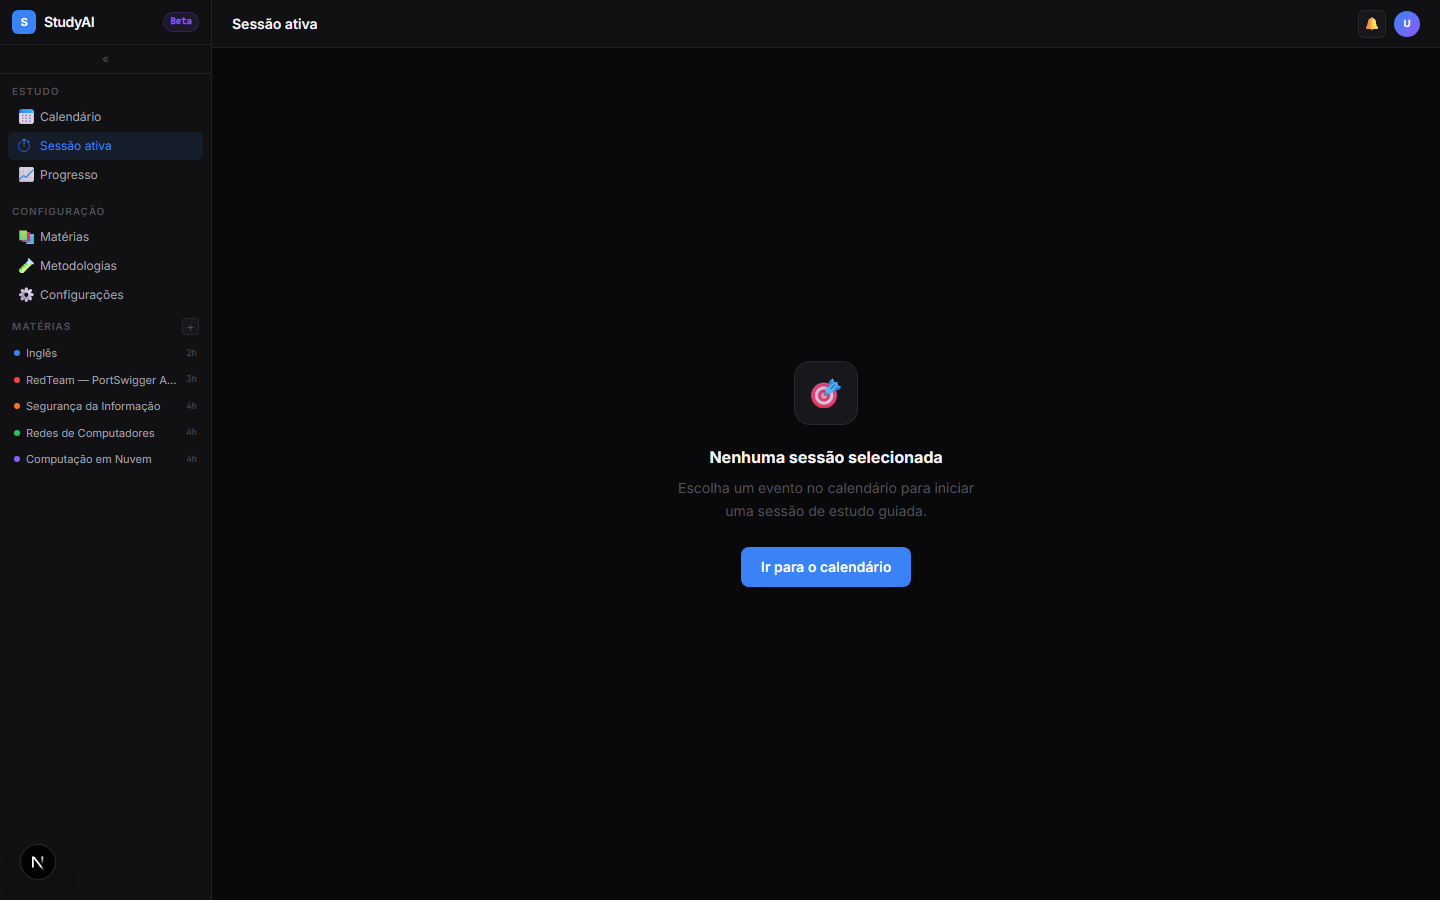
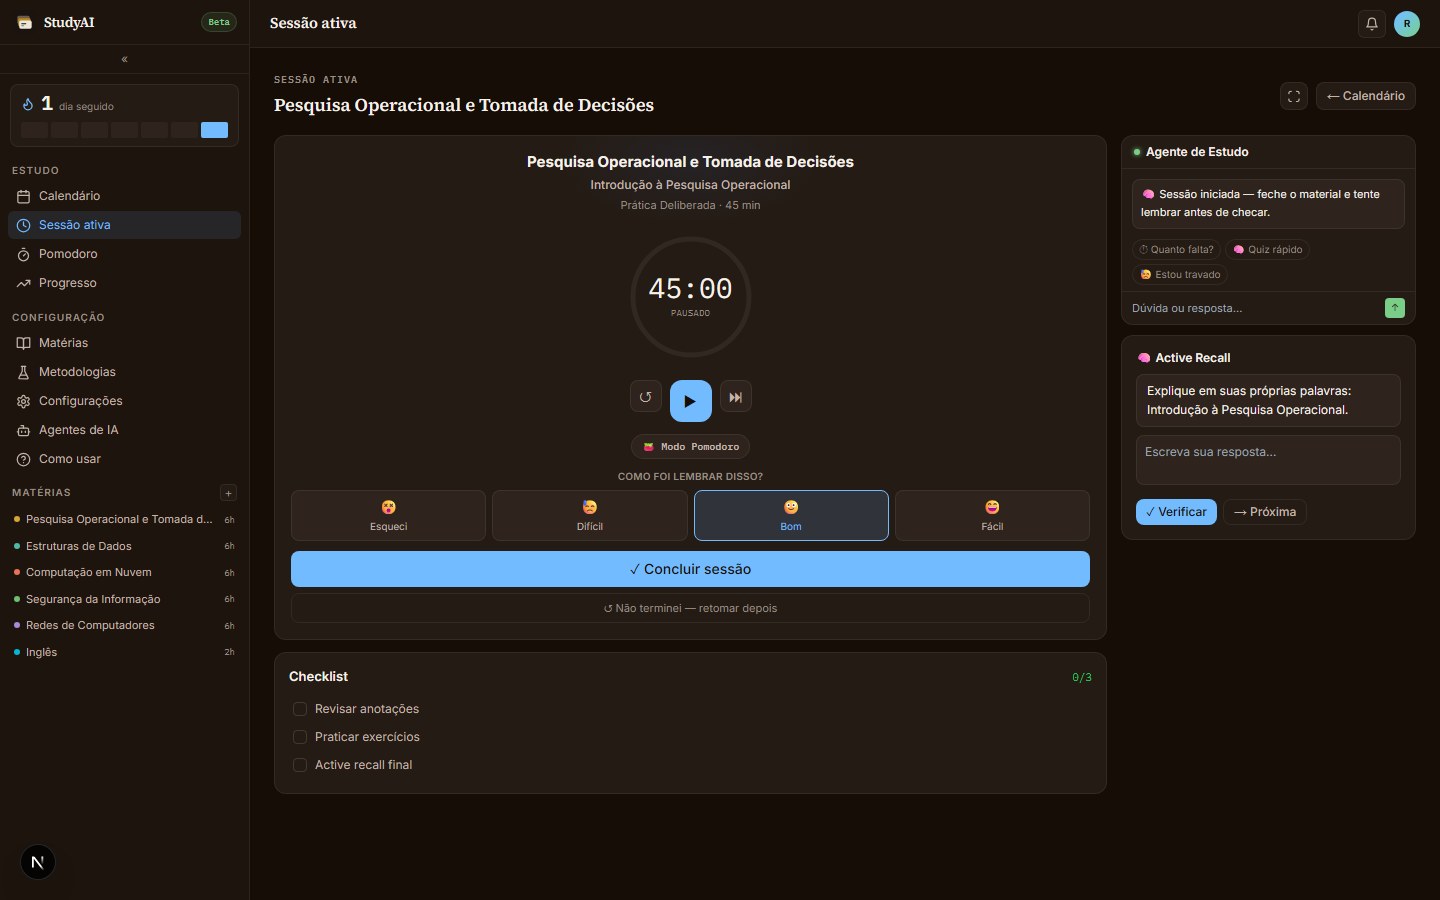
Refresh README/USER_GUIDE and all screenshots against current app state
Screenshots were taken against real seeded data (6 disciplines, real
progress) instead of an empty account, and now include /agents and the
new standalone /pomodoro tab (previously undocumented and unshotted).

Docs now cover everything shipped since the last pass:
- Matérias: Lista/Kanban view toggle, drag-and-drop status change + reorder
  within a Kanban column.
- Sessão: Pomodoro durations are configurable now (was hardcoded 25/5),
  Active Recall grading is 3-tier (Correto/OK/Incorreto), not boolean.
- New standalone Pomodoro tab: independent of any discipline, configurable
  work/break/long-break durations and cycle interval, lofi/Spotify
  background music, its own Hoje/Semana/Histórico stats and streak.
- New Aparência tab: 4 live color templates (Notion default, Linear,
  Raycast, Claude — the app's only light theme), saved to profile.
- Progresso: level/XP gamification card.
- Dashboard: the notification bell is real now (overdue reviews + exams
  within 7 days), not a canned toast; stat cards have explanatory tooltips.
- Agentes de IA: the "responde no chat" vs "automático" distinction added
  earlier this session.

diff --git a/docs/USER_GUIDE.md b/docs/USER_GUIDE.md
@@ -153,6 +153,14 @@ arraste/associe disciplinas a ela. É só organização visual — apagar um gru
 disciplinas dele (não apaga as disciplinas), e nenhuma lógica de geração de calendário lê o grupo
 de uma matéria.
 
+## Visão Lista vs. Kanban
+
+No topo de **Matérias**, alterne entre **Lista** (o card completo de cada disciplina, com todos os
+módulos visíveis) e **Kanban** (cada disciplina vira um mini-quadro de 3 colunas — Pendente / Em
+curso / Feito). No Kanban dá pra arrastar um módulo entre colunas pra mudar o status (mesmo efeito
+de clicar no status no modo Lista) e também reordenar módulos dentro da mesma coluna arrastando —
+a ordem afeta só a exibição, não muda peso/prioridade na geração do calendário.
+
 ## Múltiplas provas/avaliações por matéria
 
 Cada disciplina pode ter várias avaliações cadastradas (nome, data, peso opcional) em vez de uma
@@ -177,7 +185,7 @@ pedagógico, por um critério real (não aleatório):
 | 🗺 Mapas Mentais | Sim (critério restrito) | Módulo pendente com 4+ tópicos cadastrados — material com muitos subtópicos interligados se beneficia de organizar antes de praticar |
 | 📐 Aprendizagem por Problemas | Sim (parcial) | Ciclo de módulos "em progresso" — aplicar a um problema real encaixa melhor quando já existe alguma base |
 | 🔀 Interleaving | Não é rotulado como "metodologia da sessão" | O motor *aplica* interleaving na distribuição das sessões (intercala matérias), mas isso é sobre a ordem das sessões, não sobre o que fazer dentro de uma — não aparece como rótulo |
-| ⏱ Pomodoro | Não é atribuída pelo agendador | É uma técnica estrutural (organiza *quando/quanto tempo* estudar), não de conteúdo — disponível como modo de timer opcional dentro de qualquer sessão, independente da metodologia escolhida pra ela |
+| ⏱ Pomodoro | Não é atribuída pelo agendador | É uma técnica estrutural (organiza *quando/quanto tempo* estudar), não de conteúdo — disponível como modo de timer opcional dentro de qualquer sessão (independente da metodologia escolhida pra ela) ou solto na aba própria **Pomodoro** |
 
 Vale abrir a tela Metodologias e ler o passo a passo de cada uma antes de uma sessão — o conteúdo
 lá é completo e fundamentado na base de evidência do projeto (Dunlosky et al. 2013 e outras
@@ -189,17 +197,19 @@ Você chega em uma sessão clicando em um evento no calendário e depois em "▶
 pelo card de uma disciplina). Isso cria o registro da sessão no banco *no momento em que você
 inicia* — não no horário original do slot do calendário.
 
-- **Timer**: play/pause, reset, pular, ou troque pro **modo Pomodoro** (ciclo de 25 min de foco /
-  5 min de pausa, com transição automática e contagem de ciclos completos). Atalho de teclado:
-  `Espaço` (play/pause, segue o modo ativo), `F` (modo foco em tela cheia), `Esc` (sair do modo
-  foco), `→` (próxima pergunta de active recall).
+- **Timer**: play/pause, reset, pular, ou troque pro **modo Pomodoro** (durações configuráveis —
+  ver seção própria abaixo — com transição automática e contagem de ciclos completos). Atalho de
+  teclado: `Espaço` (play/pause, segue o modo ativo), `F` (modo foco em tela cheia), `Esc` (sair do
+  modo foco), `→` (próxima pergunta de active recall).
 - **Checklist**: "Revisar anotações", "Praticar exercícios", "Active recall final" — é só um guia
   visual, não é salvo nem afeta nada além da própria tela.
 - **Active Recall**: se o módulo tem tópicos cadastrados, as 3 perguntas são geradas pela IA com
   base nesse conteúdo real (não genéricas); sem tópicos, ou se a chamada à IA falhar, cai num
   template genérico — a sessão nunca trava esperando a IA. Depois de responder e clicar
-  "Verificar", a resposta é avaliada por IA como certa/incompleta com um feedback curto (se essa
-  chamada falhar, sua resposta continua sendo registrada, só sem o veredito).
+  "Verificar", a resposta é avaliada pela IA em 3 níveis — **✓ Correto** (entendeu bem), **OK**
+  (mostrou entendimento parcial, mas faltou uma parte real da resposta) ou **✗ Incorreto** (vago,
+  vazio ou fora do tópico) — com um feedback curto explicando o veredito (se essa chamada falhar,
+  sua resposta continua sendo registrada, só sem o veredito).
 - **Concluir sessão**: registra a sessão como concluída, aplica o resultado ao FSRS (data da
   próxima revisão daquele módulo é recalculada de verdade a partir da sua autoavaliação de recall)
   e volta ao Dashboard.
@@ -216,6 +226,45 @@ no topo de qualquer outra tela do app enquanto a sessão continua ativa, com ata
 — é a parte da tela com mais evidência de eficácia (veja a skill `study-methodology-mentor` para o
 porquê). O checklist é só apoio; o ganho real de aprendizado está no recall.
 
+## Aba Pomodoro (timer solto, sem vincular a uma matéria)
+
+Diferente do modo Pomodoro dentro de uma sessão (que também conta pro histórico daquela matéria),
+a aba **Pomodoro** na barra lateral é um timer independente — útil pra qualquer bloco de foco,
+dentro ou fora do StudyAI, sem precisar escolher módulo nenhum.
+
+- **Configuração** (ícone de engrenagem): duração do foco, da pausa curta, da pausa longa, e a
+  cada quantos ciclos a pausa longa entra — mesmo modelo do pomofocus.io. Também dá pra ligar
+  auto-início da próxima fase (foco→pausa e pausa→foco sem precisar clicar em play de novo).
+- **Música de fundo**: ligada por padrão com um ambiente lofi gerado localmente (Web Audio API —
+  sem baixar nem transmitir arquivo nenhum), ou troque pra uma playlist do Spotify colando o link
+  dela. Ajustável direto na tela, com controle de volume.
+- **Abas Hoje / Semana / Histórico**: minutos de foco reais completados (não conta o tempo de
+  pausa) e um streak próprio — dias consecutivos com pelo menos um ciclo de foco completo, contado
+  separado do streak de sessões de estudo em Progresso.
+
+## Aparência — trocar a paleta de cores do app
+
+Em **Configurações → Aparência**, escolha entre 4 templates de cor prontos — a mudança é instantânea,
+não precisa clicar em "Salvar alterações":
+
+| Template | Descrição |
+|---|---|
+| Notion | Padrão do app — azul e verde sobre grafite quente |
+| Linear | Preto quase absoluto, acento índigo |
+| Raycast | Vazio azulado escuro, acento vermelho |
+| Claude | Único tema **claro** do app — pergaminho e terracota |
+
+A escolha fica salva no seu perfil (persiste entre sessões/dispositivos, não é só local no
+navegador) e é aplicada imediatamente ao carregar qualquer tela, sem piscar o tema padrão antes.
+
+## Nível e XP (Progresso)
+
+O card no topo de **Progresso** mostra um nível e uma barra de XP, puramente local (nenhum dado
+sai da sua máquina, não é um ranking nem tem componente social). Você ganha XP por: completar uma
+sessão de estudo, completar uma revisão espaçada (metodologia "Repetição Espaçada"), e por cada
+dia de streak. É uma camada de progressão de longo prazo em cima das métricas reais — não afeta o
+calendário nem a metodologia escolhida pra nenhuma sessão.
+
 ## Configurações — o que já funciona e o que ainda é só preferência salva
 
 Seja realista sobre o que mexer aqui muda de fato, hoje:
@@ -230,6 +279,7 @@ Seja realista sobre o que mexer aqui muda de fato, hoje:
 | IA & Agentes → Base URL / Chave / Modelo | **Funciona de verdade** — troca o provedor/modelo usado por todas as chamadas de IA do app (Orchestrator, geração de calendário via IA, parser de ementa, geração/correção de active recall), sem precisar editar `.env.local` nem reiniciar o servidor. Use "Testar conexão" pra validar antes de salvar |
 | IA & Agentes → Agressividade do replanejamento | Preferência salva, **não é lida por nenhuma parte da geração de calendário** ainda |
 | IA & Agentes → toggles de Curriculum/Pedagogy/Progress/QA Agent | Preferência salva, **não desativam de fato o agente correspondente** — por exemplo, desligar "QA Agent" aqui não impede o QA de rodar |
+| Aparência → Template de cores | Funciona de verdade — troca a paleta do app inteiro na hora, sem precisar salvar |
 | Manutenção → Corrigir progresso | Funciona — recalcula o % de conclusão de todas as matérias a partir dos módulos realmente marcados como concluídos, útil se o progresso ficou dessincronizado |
 | Zona de risco → Apagar tudo | Funciona — remove matérias/módulos/grupos/sessões, mas preserva seu perfil e suas preferências (você reentra pelo onboarding com nome/bio/disponibilidade já preenchidos, não do zero) |
 

diff --git a/README.md b/README.md
@@ -10,8 +10,6 @@ via Ollama por padrão (grátis e privado — nenhum dado sai da sua máquina).
 ![CI](https://github.com/rychardchagas/StudyAi/actions/workflows/ci.yml/badge.svg)
 ![CodeQL](https://github.com/rychardchagas/StudyAi/actions/workflows/codeql.yml/badge.svg)
 
-![Dashboard do StudyAI](docs/screenshots/dashboard.png)
-
 ## Índice
 
 - [O que é](#o-que-é)
@@ -47,8 +45,11 @@ IA. Detalhes completos da arquitetura e do fluxo de geração de calendário:
 ### 📅 Calendário / Dashboard
 Grade semanal com as sessões já distribuídas pelos agentes. Clique num evento para ver detalhes,
 ou em **⚡ Replanejar** para os agentes recalcularem o cronograma. Cartões de estatística no topo
-(sessões da semana, horas planejadas, % de aderência, revisões pendentes) e um assistente de IA
-lateral para conversar sobre o próprio plano.
+(sessões da semana, horas planejadas, % de aderência, revisões pendentes) — com tooltip explicando
+como cada número é calculado — e um assistente de IA lateral para conversar sobre o próprio plano.
+O sino no topo é um centro de notificações real (não decorativo): mostra revisões espaçadas
+realmente vencidas e provas nos próximos 7 dias, direto do que o app já sabe — sem infraestrutura
+de notificação nova por trás.
 
 ![Dashboard](docs/screenshots/dashboard.png)
 
@@ -59,25 +60,41 @@ FSRS. Organize matérias em **grupos** (ex: "Faculdade", "Projeto pessoal") quan
 contextos. Cada matéria pode ter **múltiplas provas/avaliações** cadastradas (nome, data, peso
 opcional) em vez de uma única data — o app sempre usa a mais próxima pra calcular urgência e
 prioridade, com a data antiga (`exam_date`) preservada como fallback pra matérias já existentes.
+Alterne entre visão **Lista** (cards completos) e **Kanban** (módulos em 3 colunas — Pendente/Em
+curso/Feito — com drag-and-drop tanto pra mudar status quanto pra reordenar dentro da coluna).
 
 ![Matérias](docs/screenshots/disciplines.png)
 
 ### ⏱ Sessão de estudo
-Execução guiada de uma sessão: timer com modo foco (tela cheia) — ou o **modo Pomodoro** (25 min
-de foco / 5 min de pausa, com transição automática e contador de ciclos) — checklist de tarefas e
-exercício de active recall com perguntas geradas pela IA a partir do conteúdo real do módulo
-(quando os tópicos foram cadastrados) e correção certo/errado avaliada pelo LLM. Se você não
-terminar, pode marcar **"Não terminei — retomar depois"**: a sessão conta pra streak/aderência mas
-não gera uma nota de recall falsa, e o módulo continua priorizado nas próximas sessões até ser
-concluído de fato. Uma barra de sessão ativa fica visível em qualquer tela do app enquanto há uma
-sessão em andamento, com atalhos pra continuar ou concluir sem precisar reabrir a tela cheia.
+Execução guiada de uma sessão: timer com modo foco (tela cheia) — ou o **modo Pomodoro**, com
+duração de foco/pausa configurável (ver seção Pomodoro abaixo) — checklist de tarefas e exercício
+de active recall com perguntas geradas pela IA a partir do conteúdo real do módulo (quando os
+tópicos foram cadastrados) e correção em 3 níveis avaliada pelo LLM: **Correto** / **OK**
+(entendimento parcial, mas faltou algo) / **Incorreto**. Se você não terminar, pode marcar
+**"Não terminei — retomar depois"**: a sessão conta pra streak/aderência mas não gera uma nota de
+recall falsa, e o módulo continua priorizado nas próximas sessões até ser concluído de fato. Uma
+barra de sessão ativa fica visível em qualquer tela do app enquanto há uma sessão em andamento,
+com atalhos pra continuar ou concluir sem precisar reabrir a tela cheia.
 
 ![Sessão](docs/screenshots/session.png)
+
+### 🍅 Pomodoro
+Timer de foco independente de qualquer matéria — pode ser usado dentro de uma sessão de estudo ou
+sozinho, pra qualquer bloco de foco. Durações de foco/pausa curta/pausa longa e o intervalo de
+ciclos até a pausa longa são configuráveis (mesmo modelo do pomofocus.io), com auto-início
+opcional da próxima fase. Música de fundo embutida — um ambiente lofi gerado localmente via Web
+Audio API (sem arquivo de áudio, sem streaming) por padrão, ou uma playlist do Spotify sua se
+preferir. Aba própria com histórico (hoje/semana/geral) e streak de dias com pelo menos um ciclo
+completo, separado do streak de sessões de estudo.
+
+![Pomodoro](docs/screenshots/pomodoro.png)
 
 ### 📈 Progresso
 Streak de dias consecutivos, horas estudadas, % de aderência ao plano, mapa de atividade (estilo
 GitHub, 12 semanas), sessões por matéria e insights gerados automaticamente pelo Progress Agent
-sobre seus padrões de estudo.
+sobre seus padrões de estudo. Um cartão de **nível e XP** no topo (ganho por sessão concluída,
+revisão espaçada feita e dia de streak) dá uma camada de progressão de longo prazo por cima das
+métricas — puramente local, sem envio de dado nenhum.
 
 ![Progresso](docs/screenshots/progress.png)
 
@@ -94,8 +111,10 @@ Perfil (nome/bio usados como contexto pela IA), notificações, horários de dis
 descanso** fixo por semana) e a aba **IA & Agentes** — troque de provedor (Ollama local, Groq,
 OpenRouter, ou qualquer endpoint compatível com a API da OpenAI) direto pela UI, sem editar
 `.env.local` nem reiniciar o servidor, com um botão "Testar conexão" que valida a config antes de
-salvar. Zona de risco com "Apagar tudo" (matérias/módulos/sessões/grupos — não afeta perfil nem
-preferências) e "Corrigir progresso" (recalcula o % de conclusão a partir dos módulos reais).
+salvar. A aba **Aparência** troca a paleta de cores do app inteiro na hora — 4 templates prontos
+(Notion, o padrão; Linear; Raycast; e Claude, o único tema claro do app). Zona de risco com
+"Apagar tudo" (matérias/módulos/sessões/grupos — não afeta perfil nem preferências) e "Corrigir
+progresso" (recalcula o % de conclusão a partir dos módulos reais).
 
 ![Configurações](docs/screenshots/settings.png)
 
@@ -117,7 +136,7 @@ já salvos em vez de começar em branco.
 | Camada | Tecnologia |
 |---|---|
 | Frontend | Next.js 15 (App Router) + React 18 + Tailwind CSS |
-| Estado | Hooks customizados por domínio (`useCalendar`, `useAI`, `useTimer`, `useDisciplines`, `useDisciplineGroups`, `usePomodoro`) — sem Redux/Zustand, estado local ao componente ou derivado direto do servidor |
+| Estado | Hooks customizados por domínio (`useCalendar`, `useAI`, `useTimer`, `useDisciplines`, `useDisciplineGroups`, `usePomodoro`/`usePomodoroConfig`, `useThemePreference`, `useLofiAmbience`) — sem Redux/Zustand, estado local ao componente ou derivado direto do servidor |
 | Backend | API Routes do próprio Next.js |
 | IA | Qualquer LLM compatível com a API da OpenAI (Ollama local por padrão) via `openai` SDK, validação de entrada com `zod` |
 | Banco | SQLite local via `node:sqlite` (nativo do Node 22+, zero dependência externa), zero configuração |
@@ -174,11 +193,12 @@ de rodar `pnpm ai:stop`, o consumo pesado de memória se limita sozinho.
    calendário e te leva para o Dashboard.
 2. **Todo dia** → abra o **Calendário**, veja as sessões agendadas para hoje e clique numa delas
    para abrir os detalhes; use **▶ Iniciar sessão** para ir para a tela de **Sessão ativa**.
-3. **Durante a sessão** → siga o checklist, use o modo foco (tecla `F`) ou o modo Pomodoro se
-   quiser tela cheia sem distração, responda o exercício de active recall e conclua a sessão ao
-   final — isso alimenta o histórico usado pelo Progress Agent e pelo FSRS para agendar a próxima
-   revisão. Se não der tempo de terminar, use **"↺ Não terminei — retomar depois"** em vez de
-   forçar uma conclusão com nota de recall inventada.
+3. **Durante a sessão** → siga o checklist, use o modo foco (tecla `F`) ou o modo Pomodoro (com
+   música de fundo, se quiser) para tela cheia sem distração, responda o exercício de active
+   recall e conclua a sessão ao final — isso alimenta o histórico usado pelo Progress Agent e pelo
+   FSRS para agendar a próxima revisão. Se não der tempo de terminar, use
+   **"↺ Não terminei — retomar depois"** em vez de forçar uma conclusão com nota de recall
+   inventada. Prefere um timer solto, sem vincular a uma matéria? Use a aba **Pomodoro**.
 4. **Quando o plano mudar** (nova prova marcada, matéria adicionada, horários mudaram) → vá em
    **Matérias** para editar/adicionar (inclusive múltiplas provas por matéria), ou em
    **Configurações → Horários** para atualizar sua disponibilidade ou seu dia de descanso, depois
